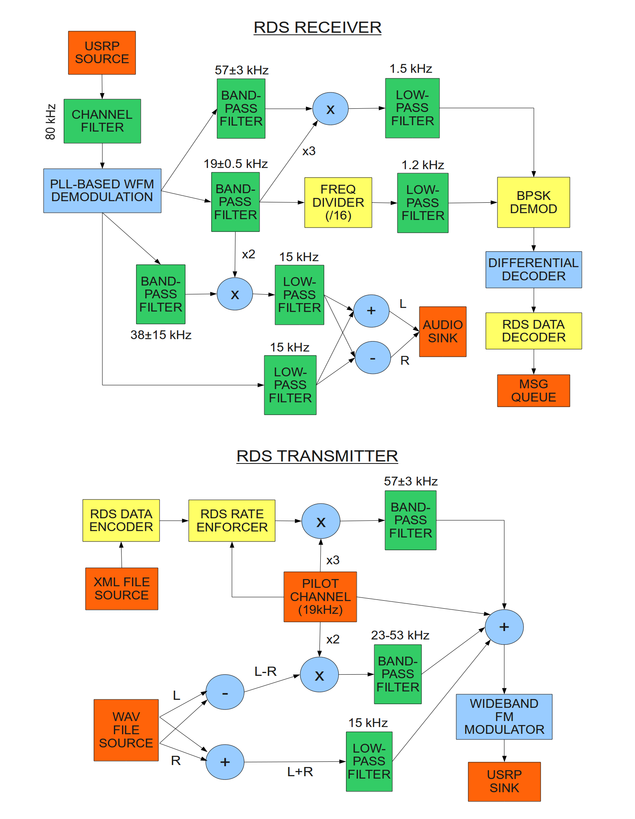
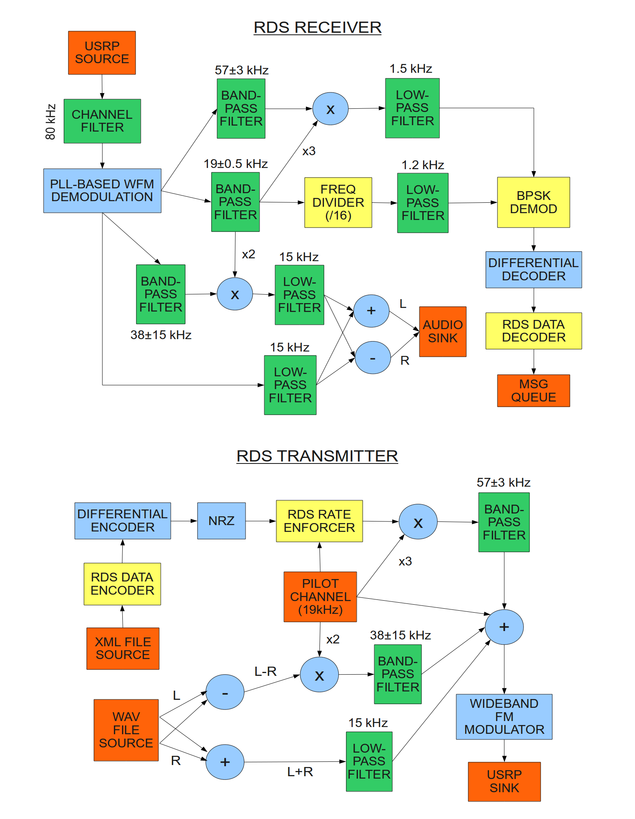
- diff-encoding, nrz are again separate from rds-encoder - fixed grc blocks install script
--HG--
extra : convert_revision : svn%3A948f8045-528a-dd11-95b9-00e08143843c/projects/radio_data_system/trunk%40426

Changed region(s): [[0.1197, 0.58, 0.8378, 0.8242], [0.5685, 0.7631, 0.6882, 0.7937]]

diff --git a/src/lib/gr_rds_data_encoder.cc b/src/lib/gr_rds_data_encoder.cc
@@ -22,12 +22,11 @@
 
 
 /*
- * This source block creates the baseband (NRZ, i.e. [-1, 1]) RDS signal.
+ * This source block creates the baseband RDS signal.
  * 
  * It reads its configuration from an XML file; composes the infowords;
  * calculates checkwords; merges the two into blocks and then groups;
- * differentially encodes the groups; maps [0, 1] to [-1, 1]; and
- * streams out the resulting buffer.
+ * and streams out the resulting buffer.
  */
 
 
@@ -59,7 +58,7 @@ gr_rds_data_encoder_sptr gr_rds_make_data_encoder (const char *xmlfile) {
 gr_rds_data_encoder::gr_rds_data_encoder (const char *xmlfile)
   : gr_sync_block ("gr_rds_data_encoder",
 			gr_make_io_signature (0, 0, 0),
-			gr_make_io_signature (1, 1, sizeof(float)))
+			gr_make_io_signature (1, 1, sizeof(unsigned char)))
 {
 // initializes the library, checks for potential ABI mismatches
 	LIBXML_TEST_VERSION
@@ -77,7 +76,7 @@ gr_rds_data_encoder::~gr_rds_data_encoder () {
 void gr_rds_data_encoder::reset_rds_data(){
 	int i=0;
 	for(i=0; i<4; i++) {infoword[i]=0; checkword[i]=0;}
-	for(i=0; i<104; i++) {buffer[i]=0; diff_enc_buffer[i]=0;}
+	for(i=0; i<104; i++) buffer[i]=0;
 	d_buffer_bit_counter=0;
 	d_g0_counter=0;
 
@@ -288,18 +287,6 @@ void gr_rds_data_encoder::prepare_buffers(){
 	printf("buffer: ");
 	for(i=0;i<13;i++) printf("%02X", temp[i]);
 	printf("\n");
-	
-	for(i=0; i<13; i++) temp[i]=0;
-	diff_enc_buffer[0]=buffer[0];
-	temp[0]=buffer[0]<<7;
-	for (q=1;q<104;q++){
-		diff_enc_buffer[q]=(buffer[q]==buffer[q-1])?0:1;
-		i=floor(q/8); j=7-q%8;
-		temp[i]=temp[i]|(diff_enc_buffer[q]<<j);
-	}
-	printf("diff-encoded buffer: ");
-	for(i=0;i<13;i++) printf("%02X", temp[i]);
-	printf("\n");
 }
 
 
@@ -313,11 +300,11 @@ int gr_rds_data_encoder::work (int noutput_items,
 					gr_vector_const_void_star &input_items,
 					gr_vector_void_star &output_items)
 {
-	float *out = (float *) output_items[0];
+	unsigned char *out = (unsigned char *) output_items[0];
 	
 	for(int i=0; i<noutput_items; i++){
 		if(++d_buffer_bit_counter>103) d_buffer_bit_counter=0;
-		out[i]=(diff_enc_buffer[d_buffer_bit_counter]?1:-1);	// NRZ
+		out[i]=(unsigned char)buffer[d_buffer_bit_counter];
 	}
 	
 	return noutput_items;

diff --git a/src/python/usrp_rds_tx.py b/src/python/usrp_rds_tx.py
@@ -108,9 +108,13 @@ class rds_tx_block(stdgui2.std_top_block):
 		# enforce the 1187.5bps rate
 		# mix with 57kHz carrier (equivalent to BPSK)
 		self.rds_enc = rds.data_encoder('rds_data.xml')
+		self.diff_enc = gr.diff_encoder_bb(2)
+		self.nrz = gr.map_bb([-1,1])
+		self.c2f = gr.char_to_float()
 		self.rate_enforcer = rds.rate_enforcer(usrp_rate)
 		self.bpsk_mod = gr.multiply_ff()
-		self.connect (self.rds_enc, (self.rate_enforcer, 0))
+		self.connect (self.rds_enc, self.diff_enc, self.nrz, self.c2f)
+		self.connect (self.c2f, (self.rate_enforcer, 0))
 		self.connect (self.pilot, (self.rate_enforcer, 1))
 		self.connect (self.rate_enforcer, (self.bpsk_mod, 0))
 		self.connect (self.pilot, (self.bpsk_mod, 1))

diff --git a/src/lib/gr_rds_data_encoder.h b/src/lib/gr_rds_data_encoder.h
@@ -60,7 +60,6 @@ private:
 	unsigned int checkword[4];
 	unsigned int block[4];
 	bool buffer[104];
-	bool diff_enc_buffer[104];
 
 // FIXME make this a struct (or a class)
 	unsigned int PI;
